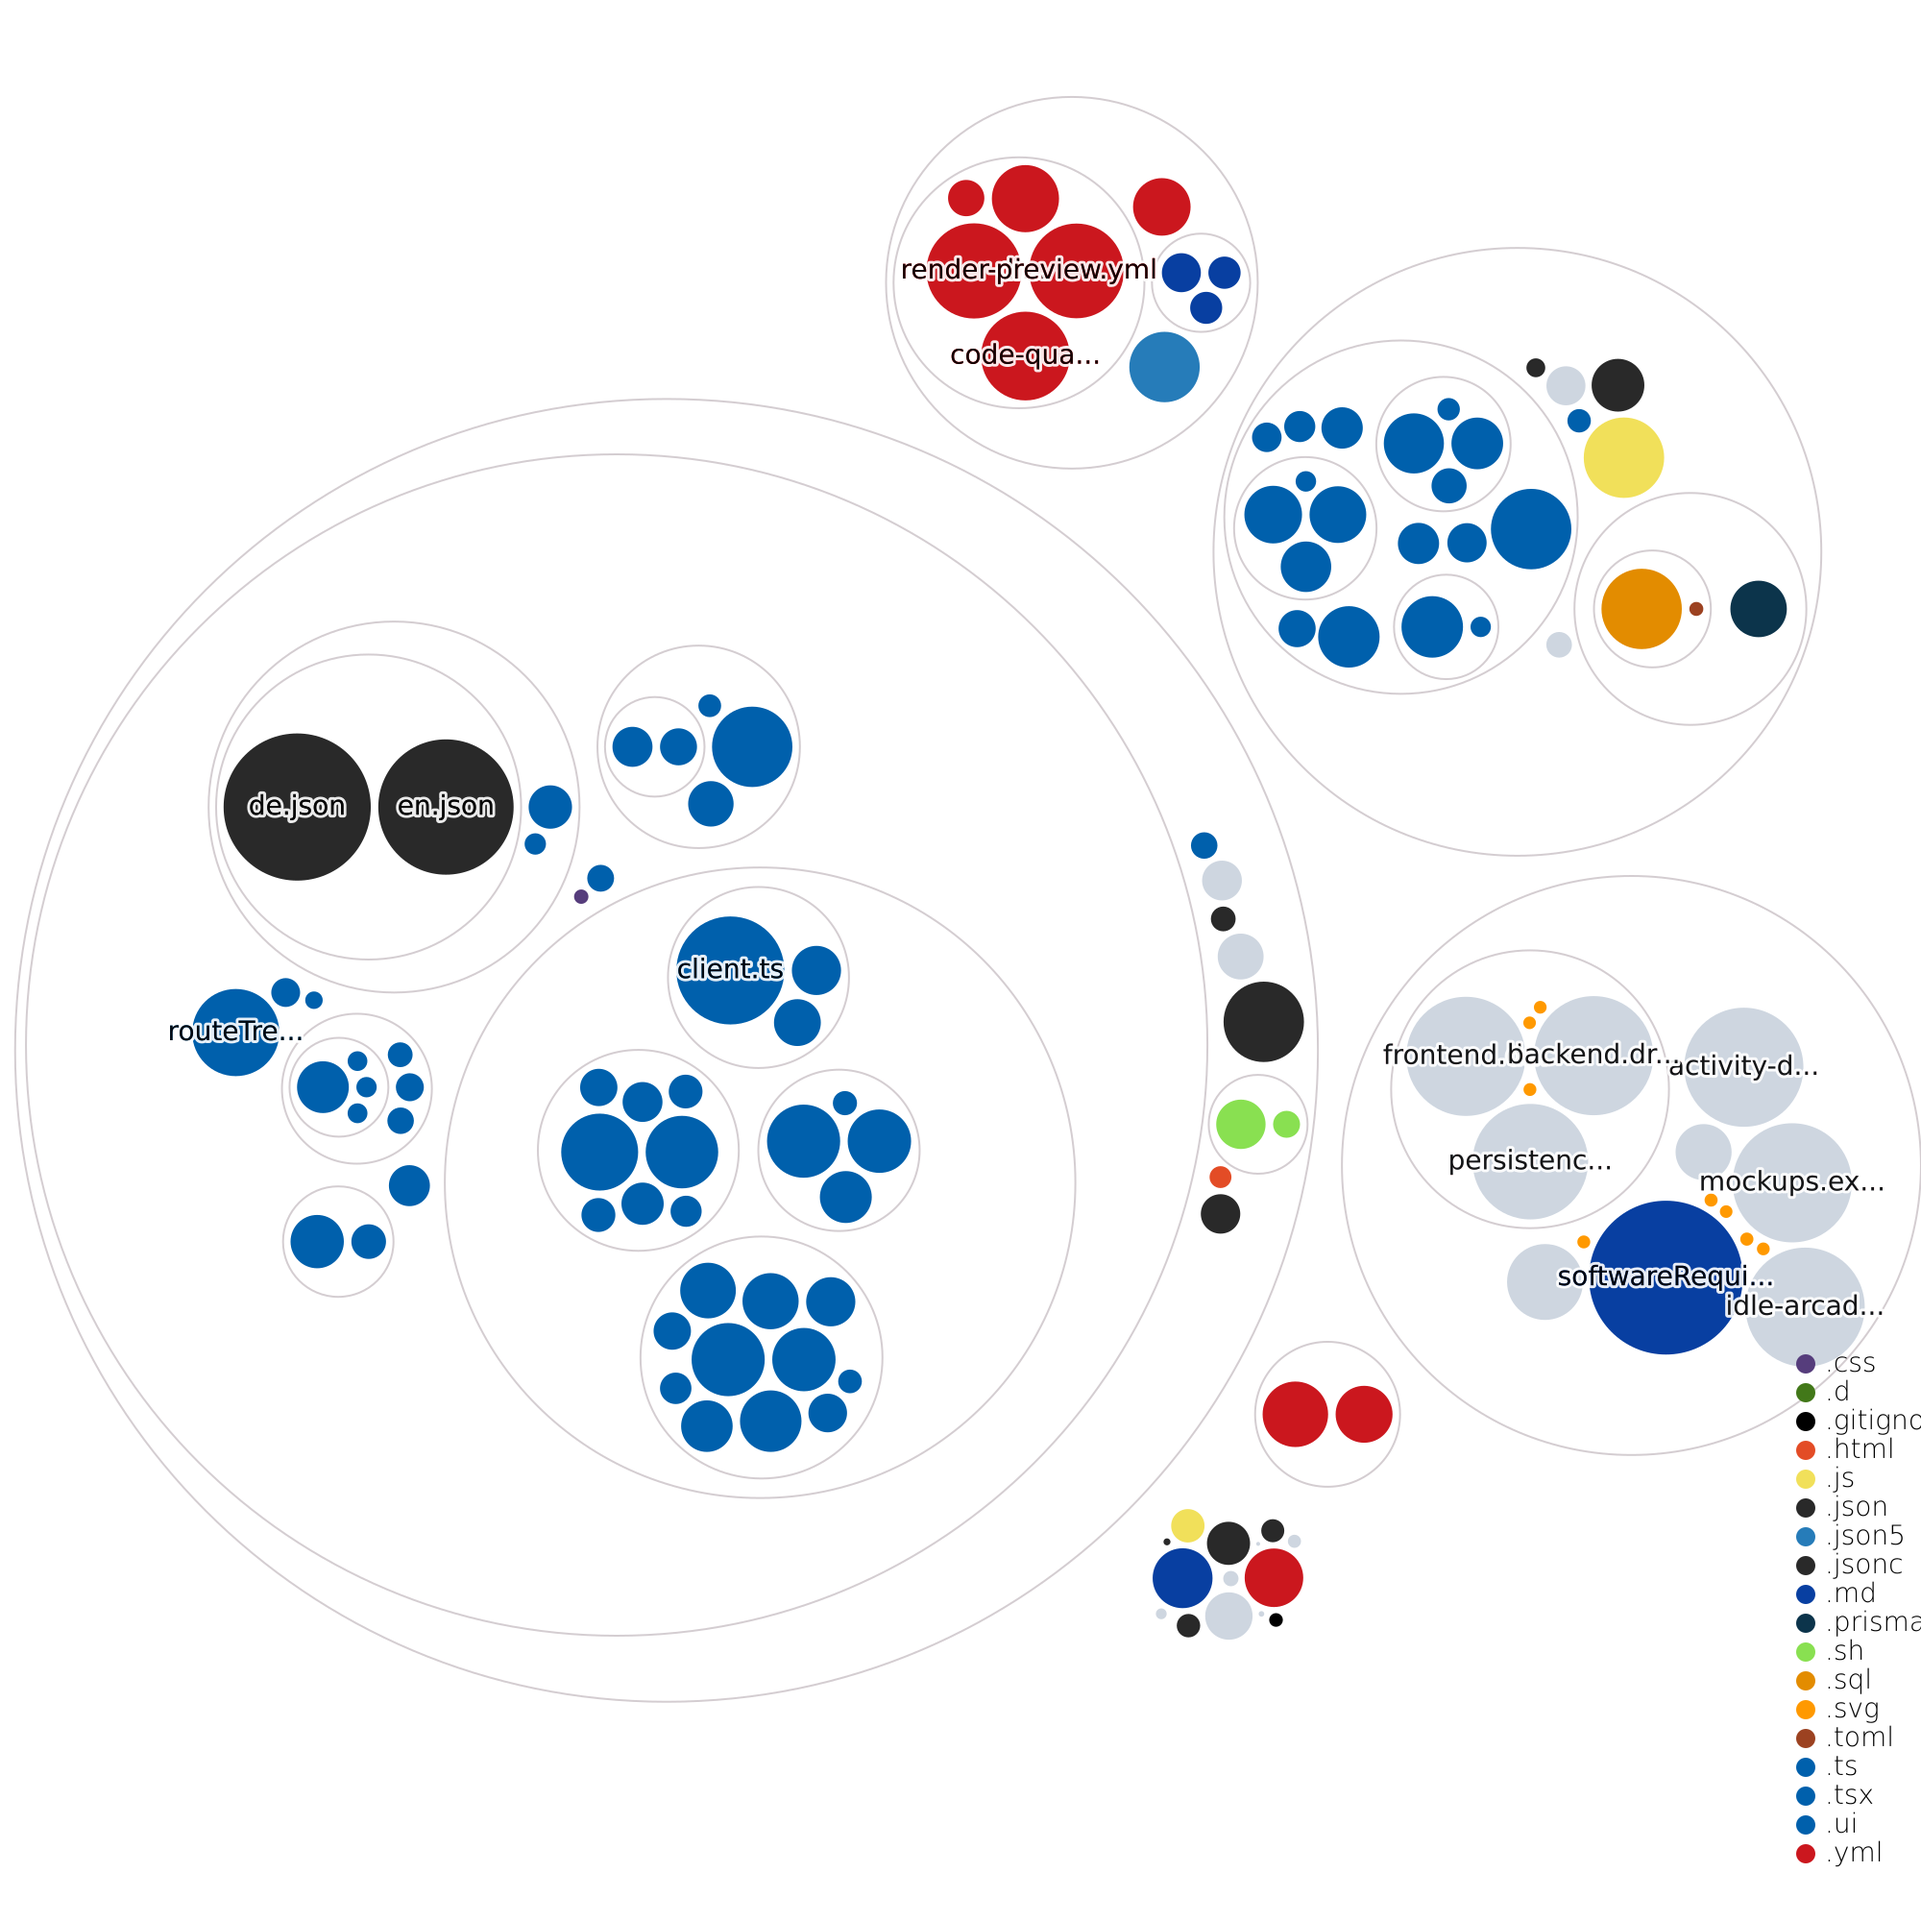
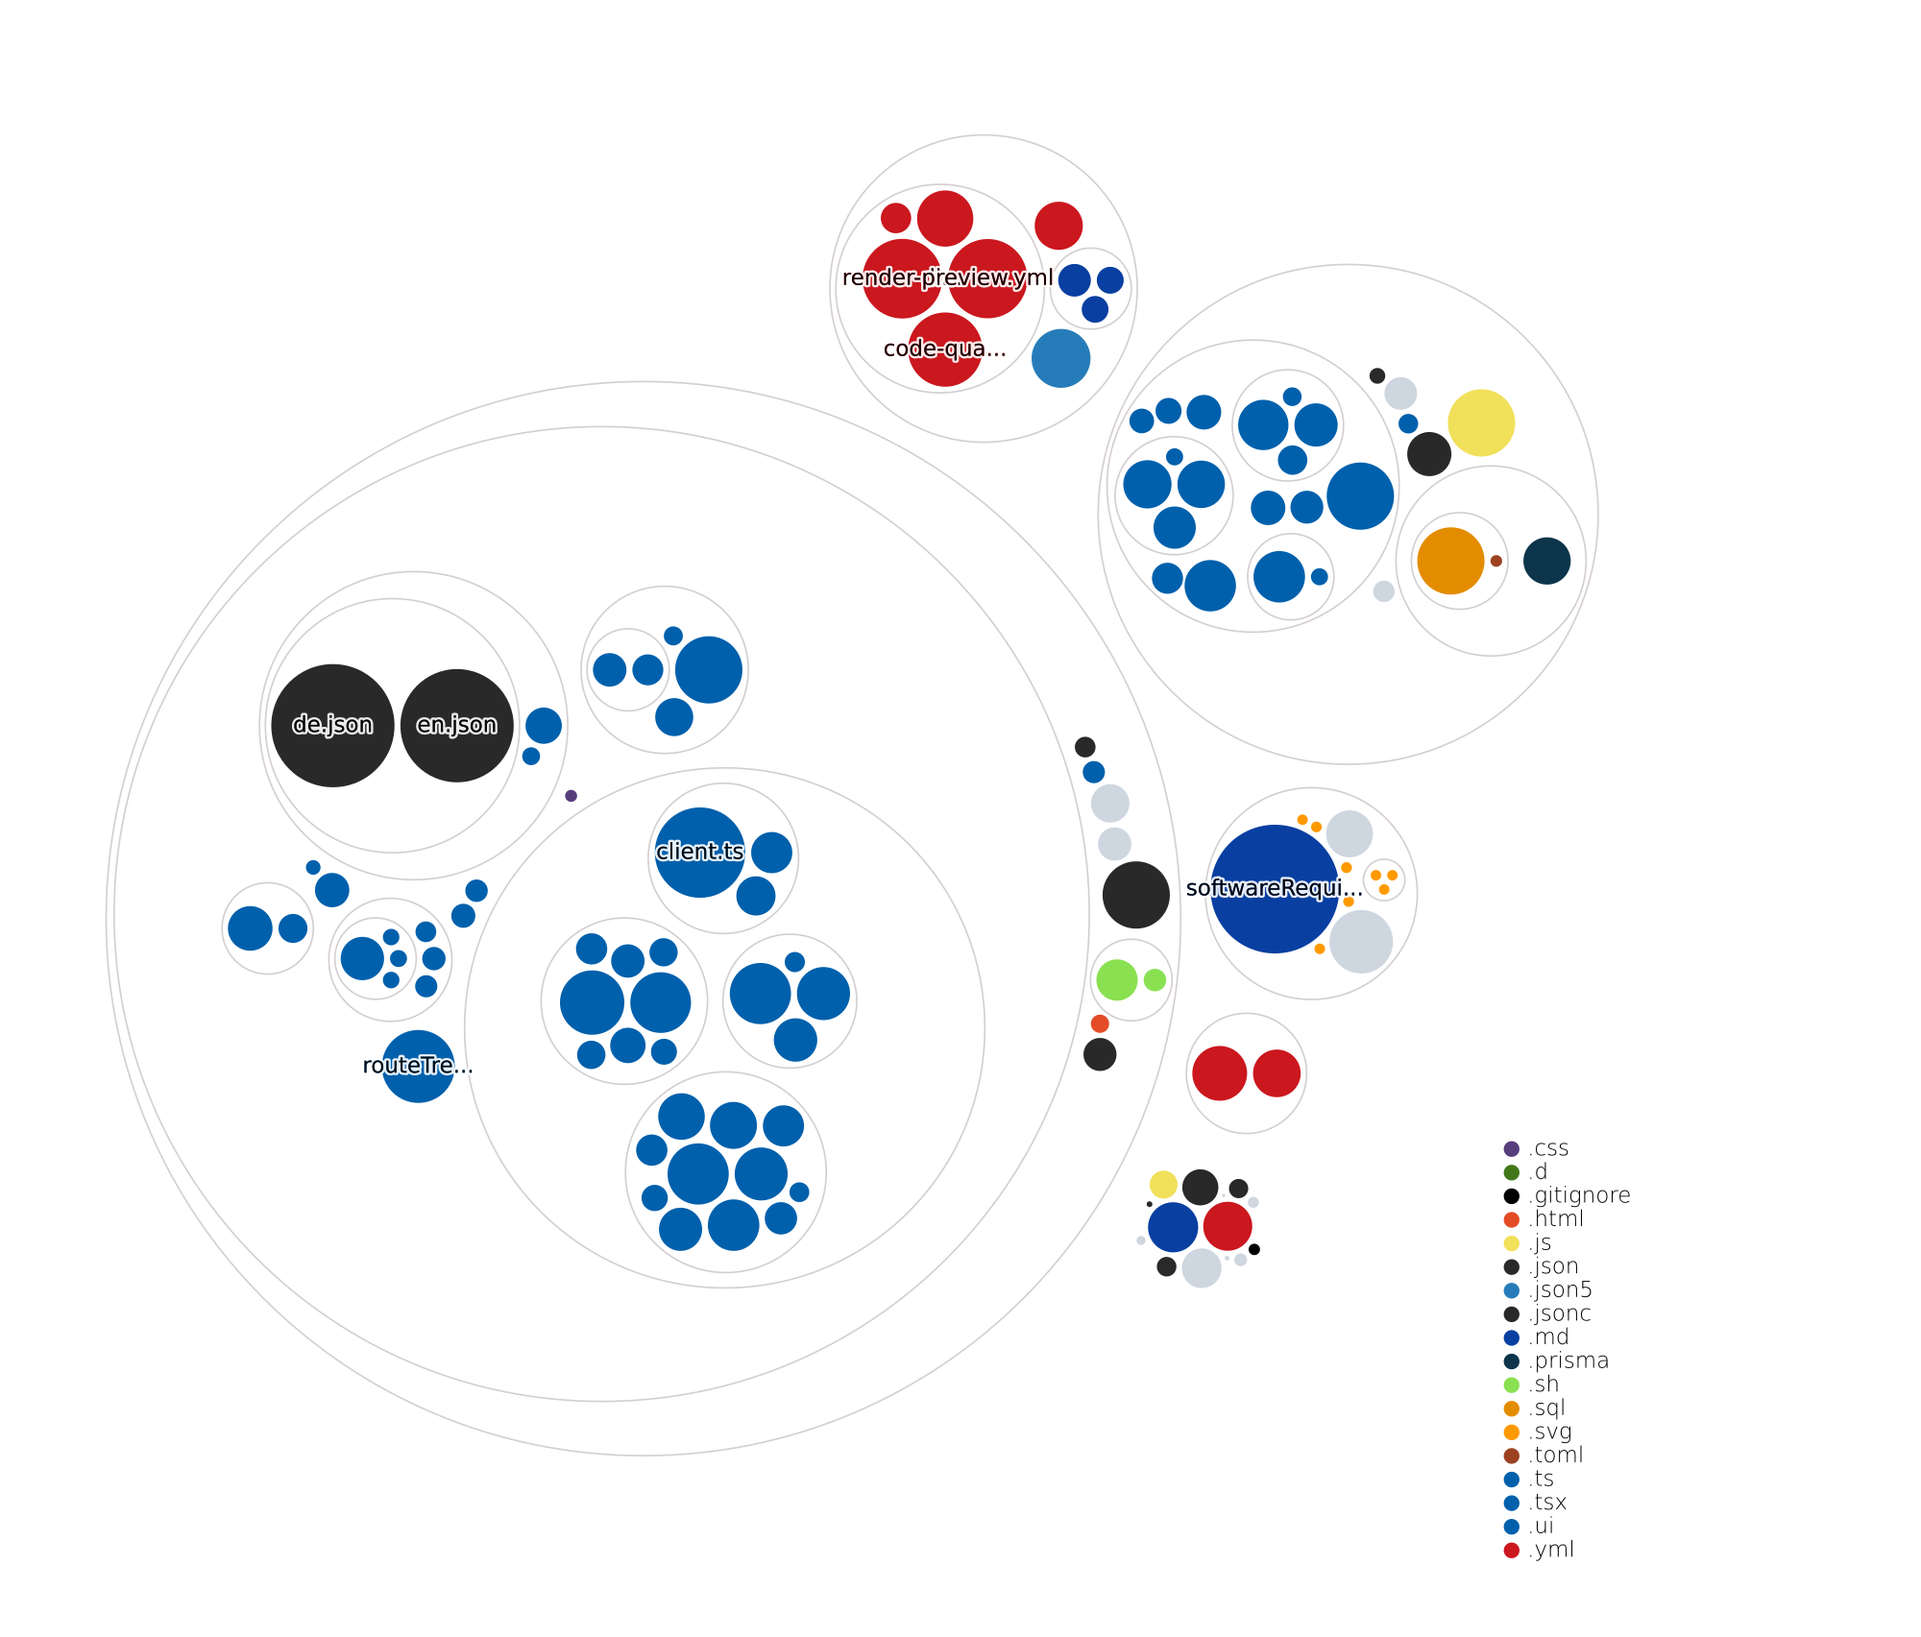
reports: refresh project effort charts

diff --git a/reports/repository/README.md b/reports/repository/README.md
@@ -6,13 +6,13 @@ Source: [idle-arcade/game at 757a022d](https://github.com/idle-arcade/game/commi
 
 ![Repo Visualizer](repo-visualizer.svg)
 
-[PNG](repo-visualizer.png) · [Existing upstream renderer](https://github.com/githubocto/repo-visualizer). The upstream action is archived and pinned to a reviewed commit; its automatic push is disabled. Files are grouped by directory and colored by type. Lockfiles, binary assets and build/dependency folders are excluded to keep source structure readable.
+[PNG](repo-visualizer.png) · [Existing upstream renderer](https://github.com/githubocto/repo-visualizer). The upstream action is archived and pinned to a reviewed commit; its automatic push is disabled. Files are grouped by directory and colored by type. Export margins and a white background keep the upstream legend visible in SVG/PNG; the layout is unchanged. Lockfiles, binary assets, drawing source files and build/dependency folders are excluded to keep source structure readable.
 
 ## Repocarto
 
 ![Repocarto](repocarto.svg)
 
-[PNG](repocarto.png) · [Existing upstream renderer](https://github.com/aurelio-nakamura/repocarto). Nested circles represent directories; file area represents lines of code and color represents language. The scan uses tracked source files with build/dependency folders, lockfiles and binary assets omitted in a temporary visualization checkout. Both the action and npm package are pinned.
+[PNG](repocarto.png) · [Existing upstream renderer](https://github.com/aurelio-nakamura/repocarto). Nested circles represent directories; file area represents lines of code and color represents language. The scan uses tracked source files with build/dependency folders, lockfiles, drawing source files and binary assets omitted in a temporary visualization checkout. Both the action and npm package are pinned.
 
 
 ## Gource still (experimental)
